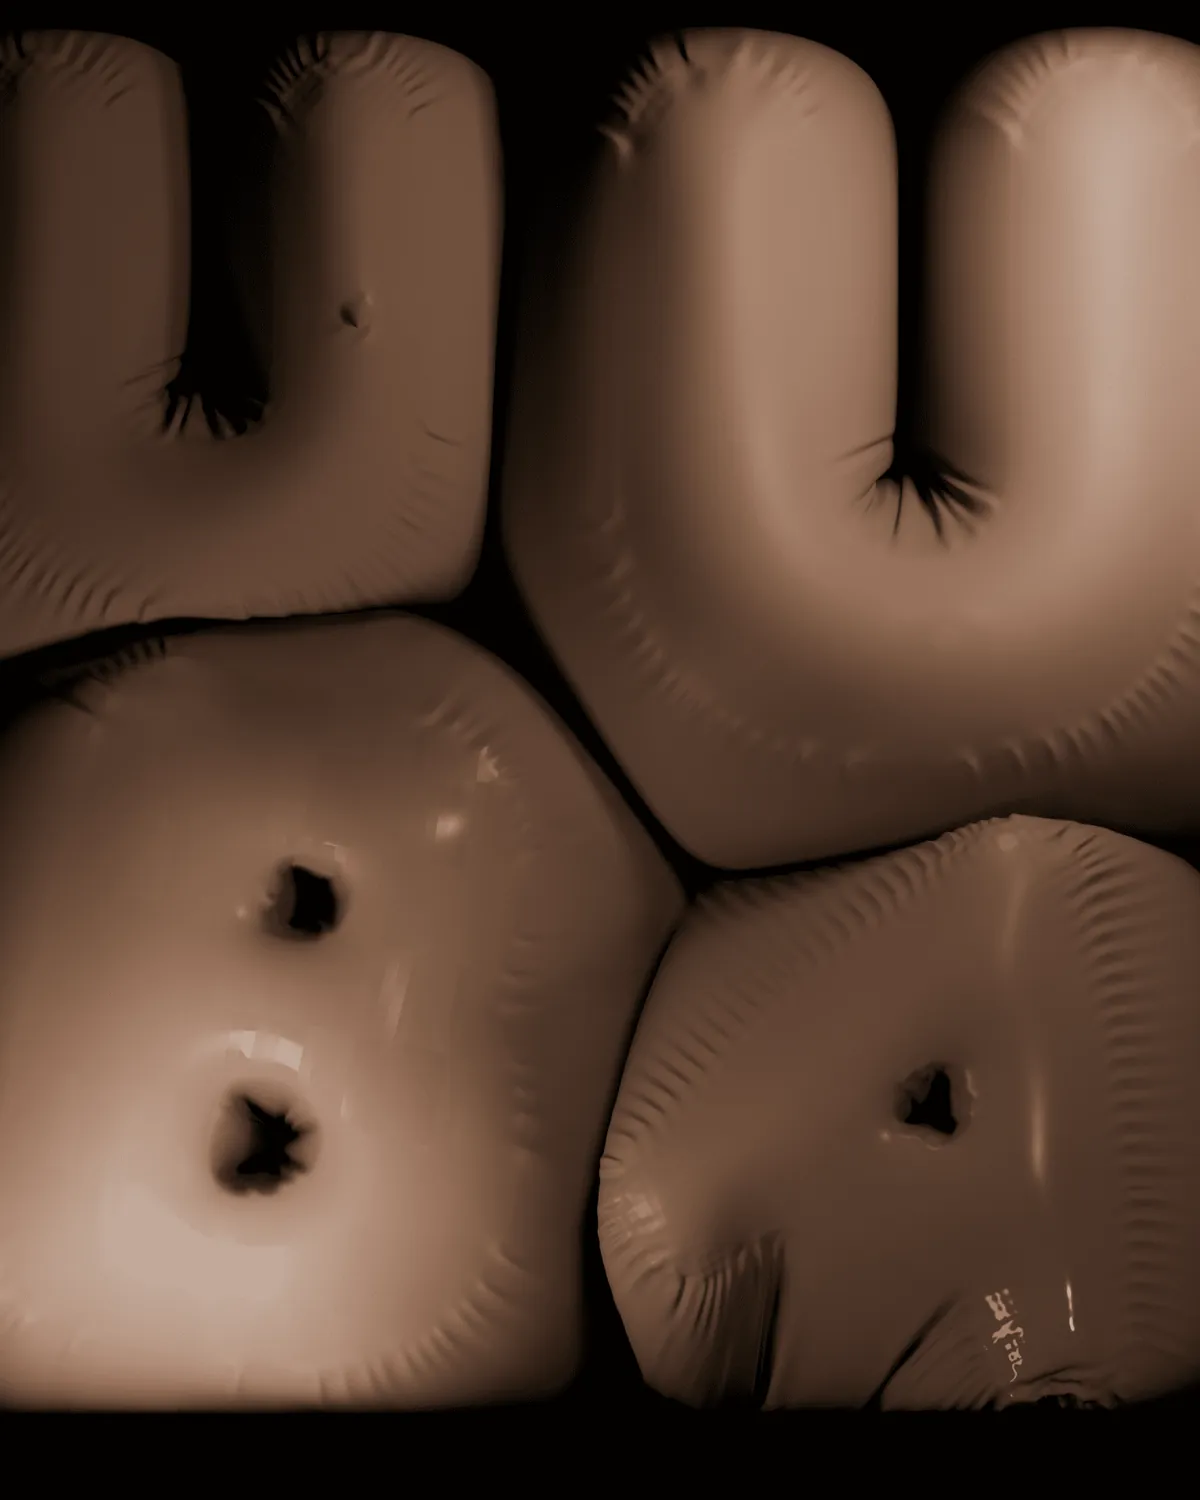
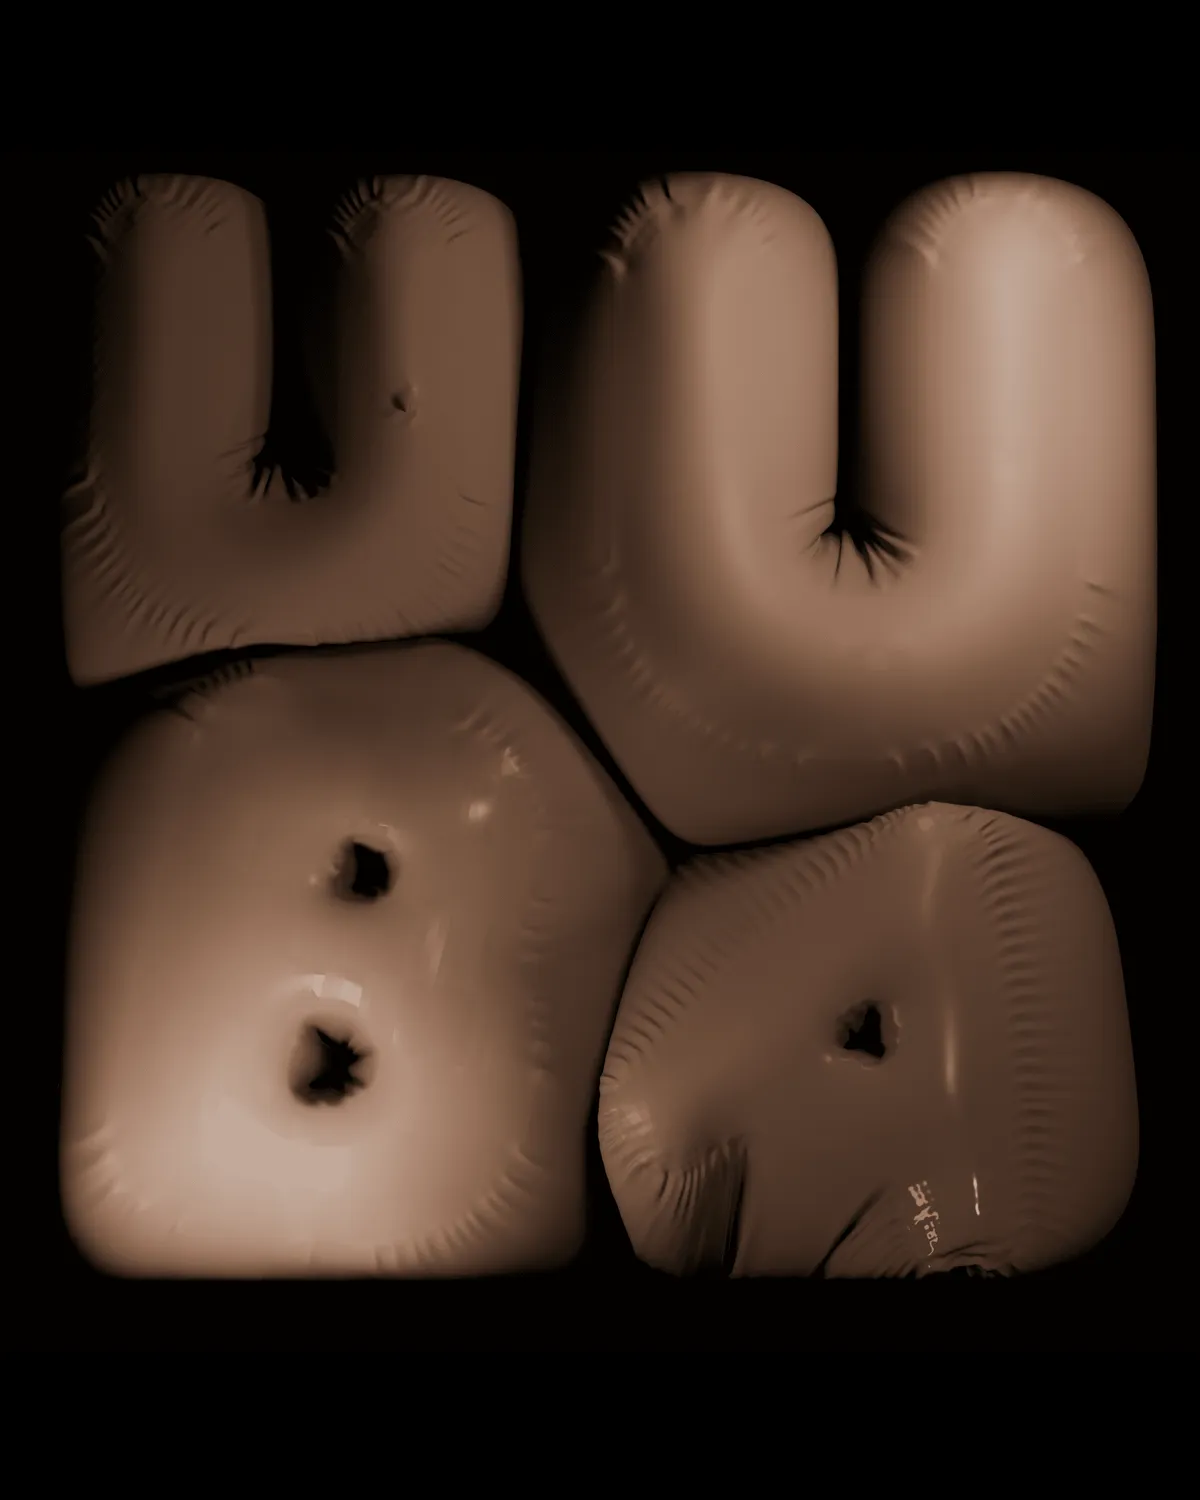
Lab: Memoria whole across its plate, its letters uncut, on its own black

diff --git a/src/outils/artwork.ts b/src/outils/artwork.ts
@@ -40,7 +40,7 @@ export const reel: Plate[] = [
   { id: "r04", url: `${L("cicuta")}?v=2`, title: "Cicuta", tech: "3d" },
   { id: "r05", url: L("otono"), title: "Otoño en la Luna", tech: "vector" },
   { id: "r06", url: L("rosa-blanca"), title: "Rosa II", tech: "3d" },
-  { id: "r07", url: L("memoria"), title: "Memoria", tech: "3d" },
+  { id: "r07", url: `${L("memoria")}?v=2`, title: "Memoria", tech: "3d" },
   { id: "r08", url: L("alfame"), title: "Alfama Lisboa" },
   { id: "r09", url: L("vacuna"), video: "/lab/vacuna.mp4", title: "Vacuna", tech: "3d" },
   { id: "r10", url: L("annet"), title: "Annet" },
